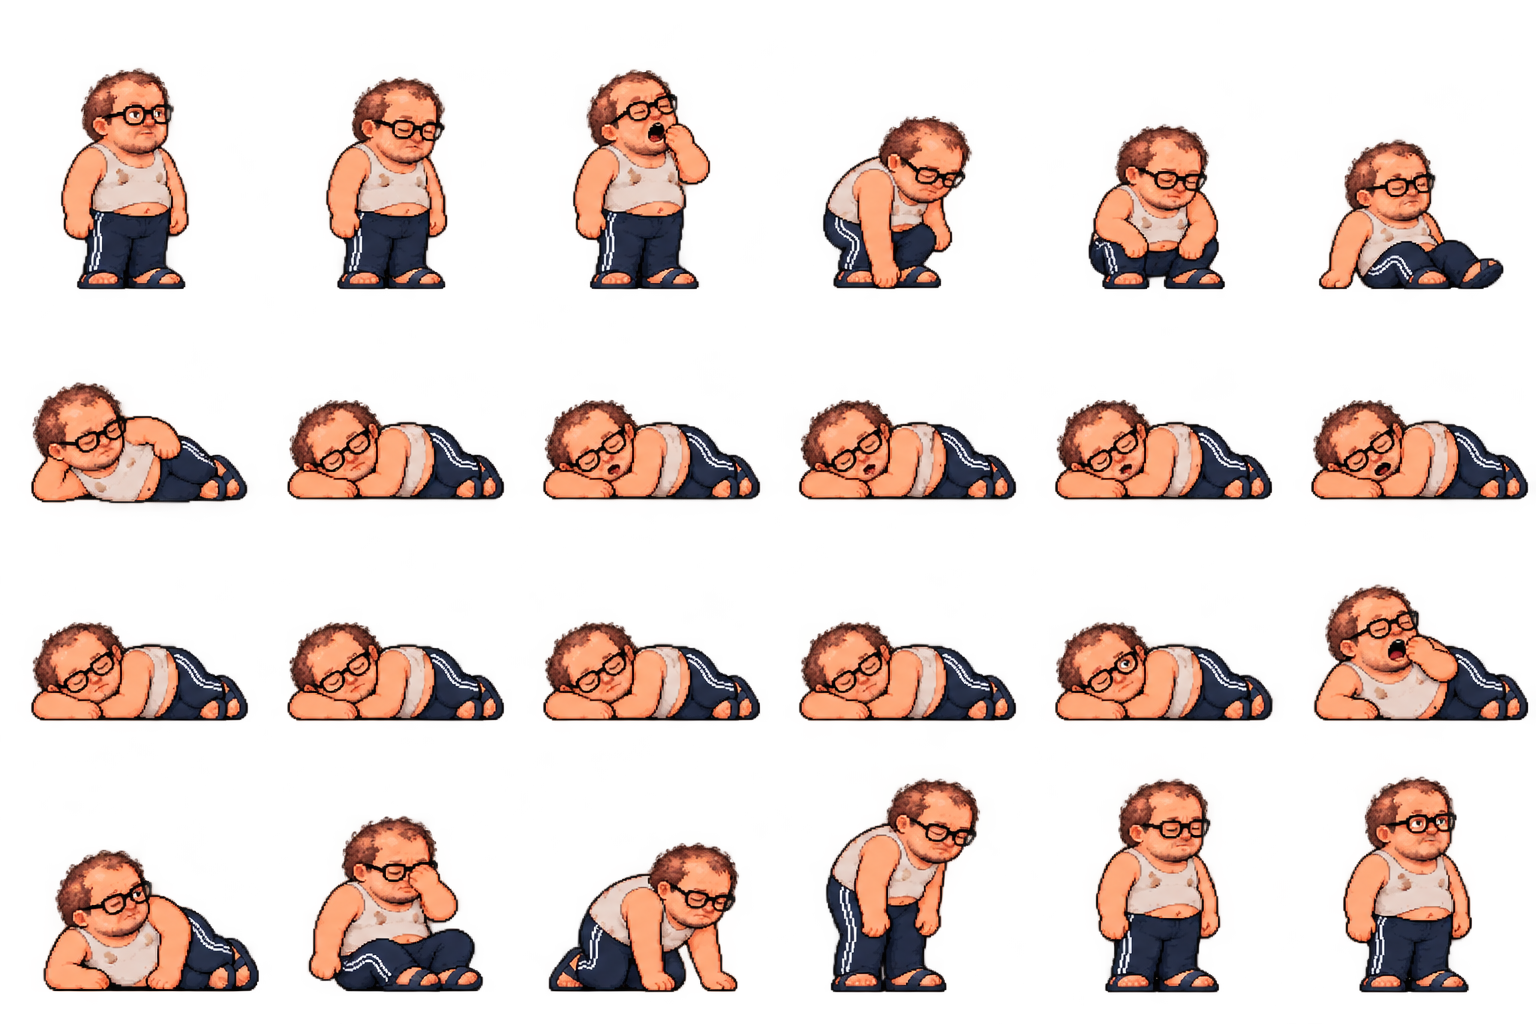
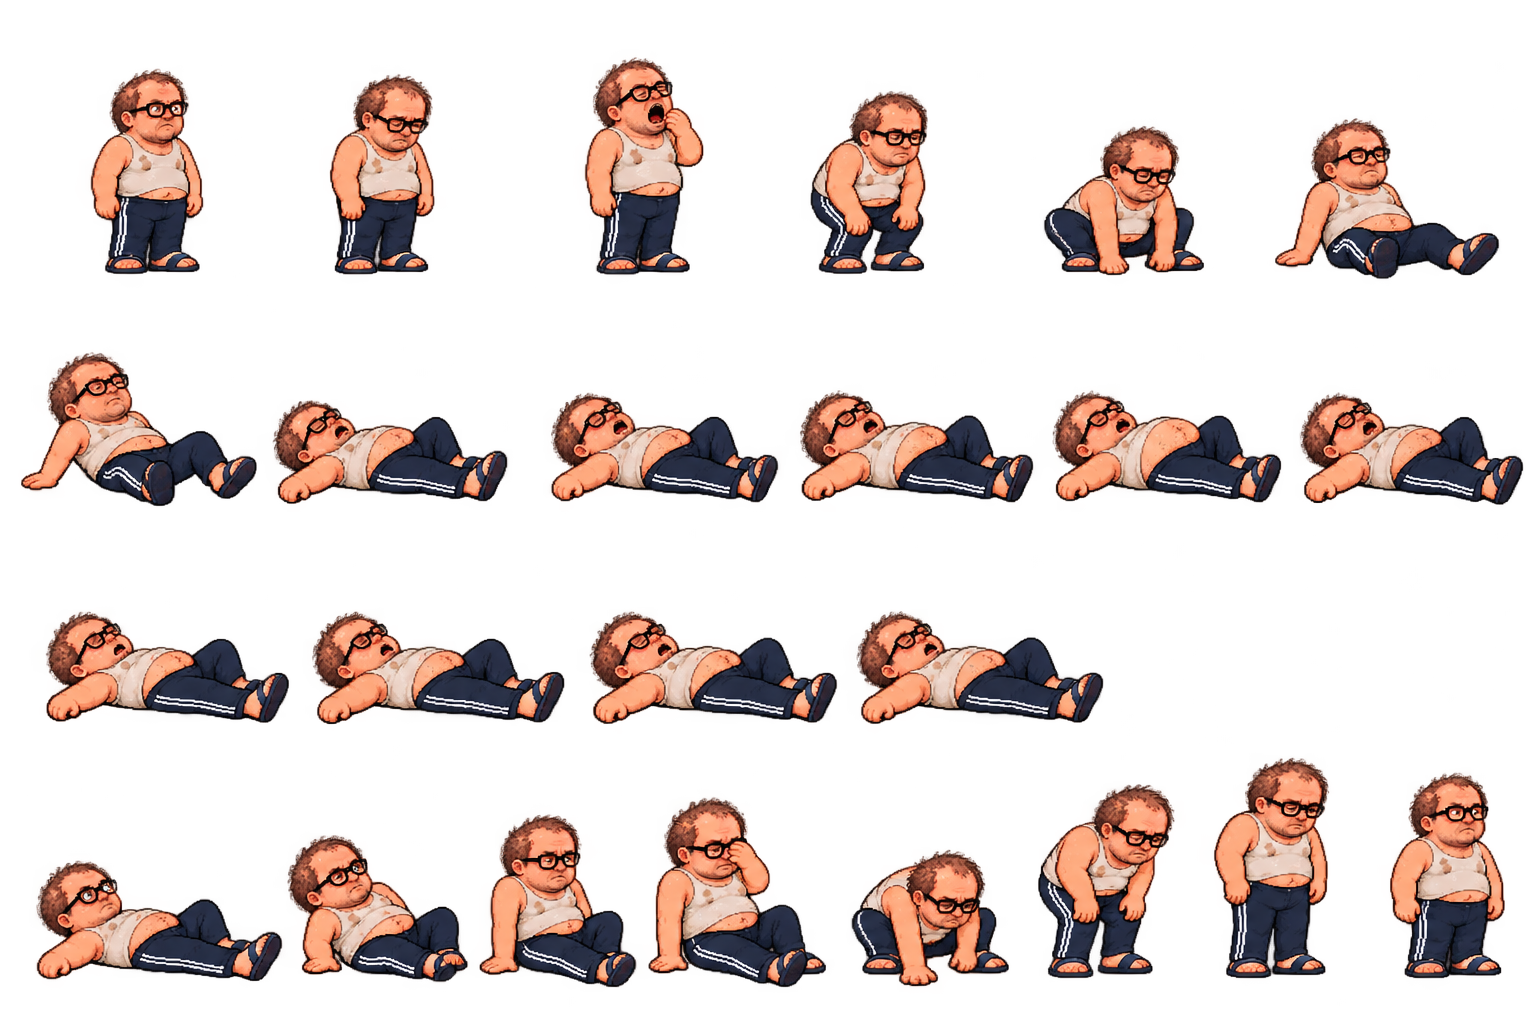
Сон на новом листе: храпит на спине
В исходнике ряды по 6, 6, 4 и 8 кадров, поэтому добавлена нарезка по
фигурам (опция figures). Последовательность прежняя: 1–8 засыпает,
9–16 храп четыре круга, 17–24 встаёт. «z» сдвинуты к голове и получили
тёмную обводку, чтобы читались на светлых обоях.

diff --git a/js/app.js b/js/app.js
@@ -160,9 +160,14 @@ function drawZzz(z, t) {
   for (let i = 0; i < 3; i++) {
     const k = (t / ZZZ_MS + i / 3) % 1;
     const size = 8 + Math.round(k * 6);
+    const alpha = (Math.min(1, k * 4) * (1 - k)).toFixed(2);
+    const x = z.x + k * 22 + 3 * Math.sin(k * 9 + i), y = z.y - k * 34;
     ctx.font = `bold ${size}px monospace`;
-    ctx.fillStyle = `rgba(238,242,250,${(Math.min(1, k * 4) * (1 - k)).toFixed(2)})`;
-    ctx.fillText('z', z.x + k * 22 + 3 * Math.sin(k * 9 + i), z.y - k * 34);
+    ctx.lineWidth = 3;                                  // тёмная обводка — видно и на светлых обоях
+    ctx.strokeStyle = `rgba(28,32,38,${alpha})`;
+    ctx.strokeText('z', x, y);
+    ctx.fillStyle = `rgba(238,242,250,${alpha})`;
+    ctx.fillText('z', x, y);
   }
   ctx.textAlign = 'left';
 }

diff --git a/js/animations.js b/js/animations.js
@@ -160,7 +160,7 @@
       sheet: 'sleep',
       frames: seq(sleepSeq, sleepMs),
       // пока лежит — от головы всплывают «z» (x, y — где голова, кадры — когда)
-      zzz: { frames: sleepLoop, x: 86, y: 140 },
+      zzz: { frames: sleepLoop, x: 72, y: 124 },
       phrases: ['Чёт я устал…', 'Ой вей, спать.', 'Разбудите к хинкалу.'],
     },
     poop: {
